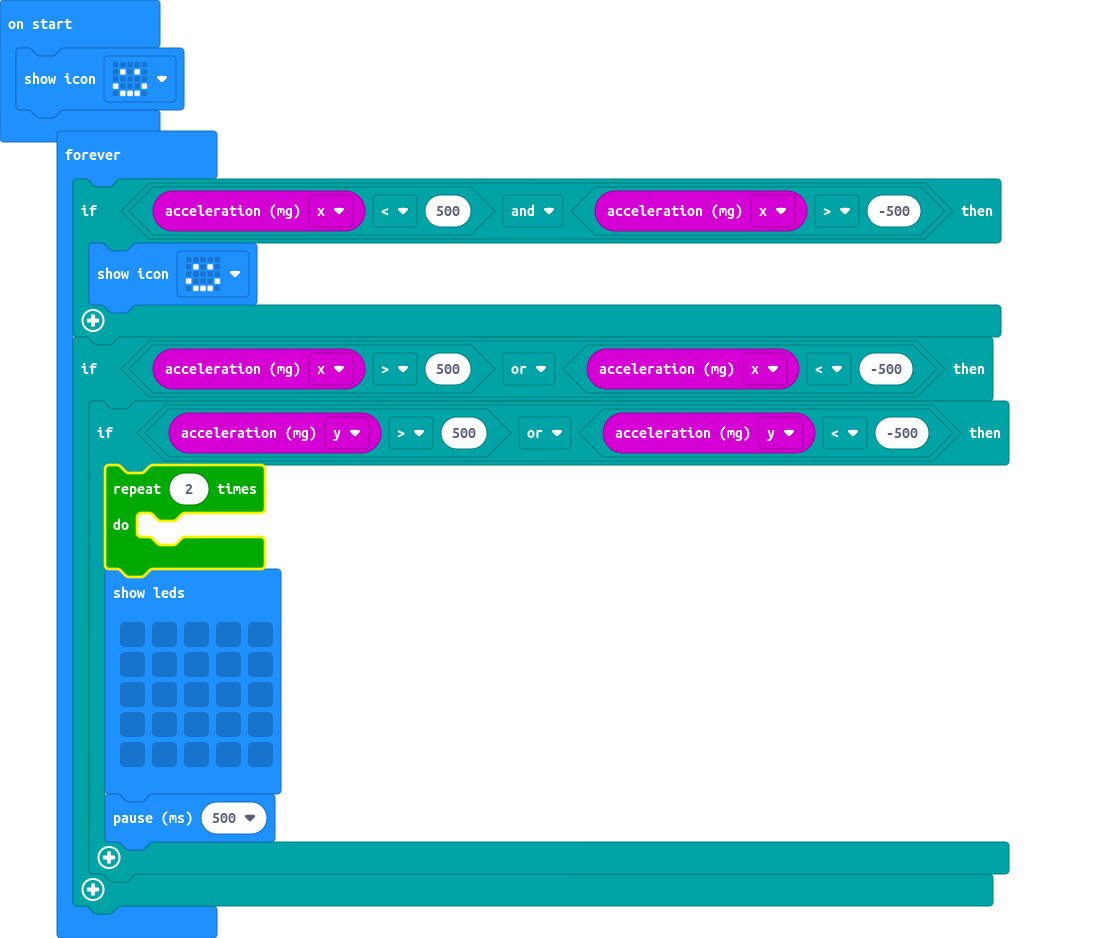
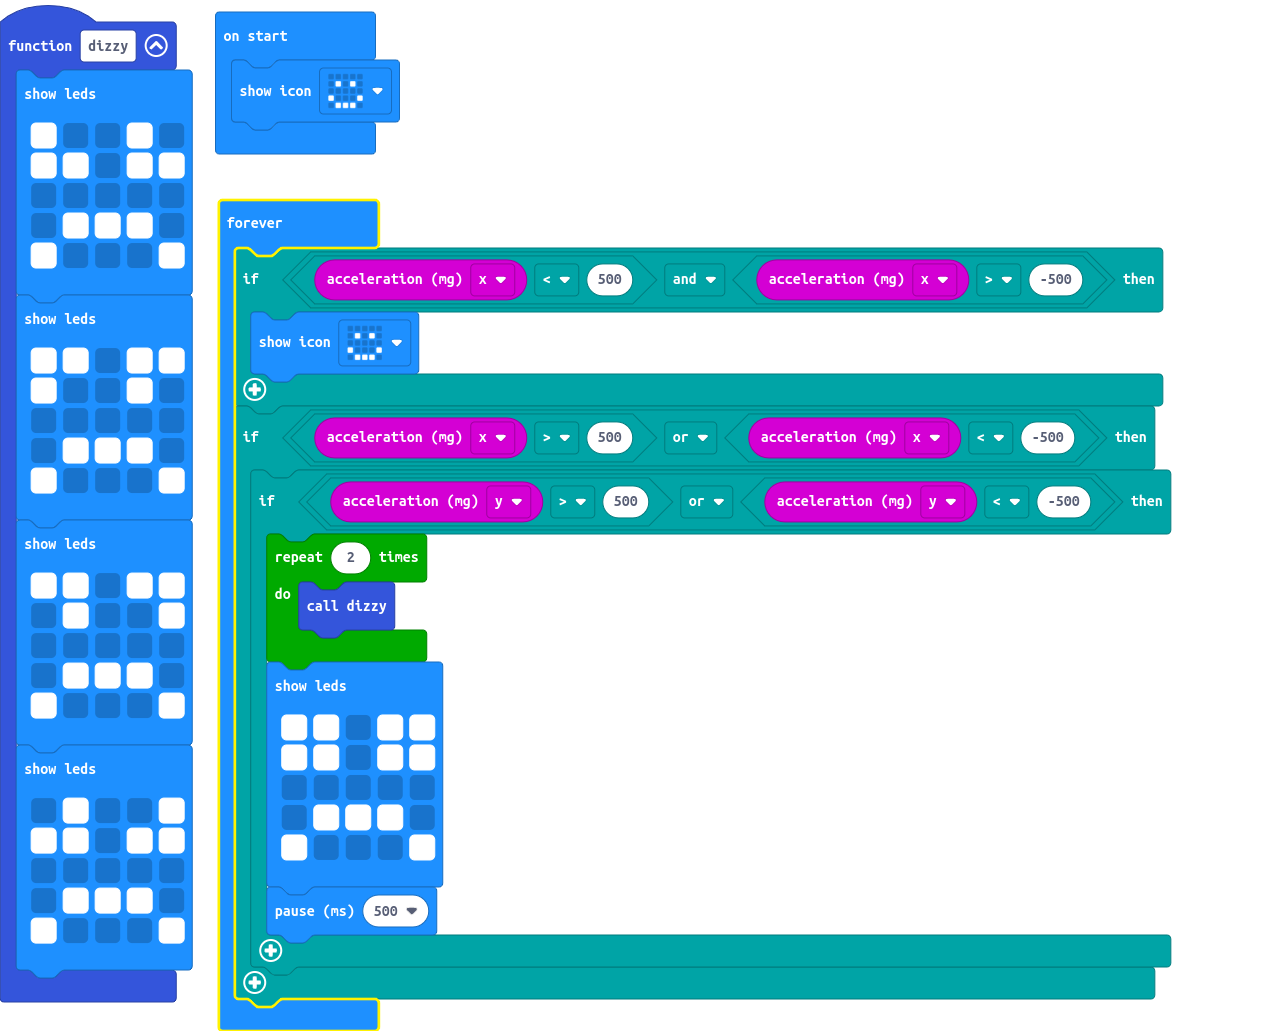
Update main.blocks, main.ts

diff --git a/main.ts b/main.ts
@@ -1,3 +1,33 @@
+function dizzy () {
+    basic.showLeds(`
+        # . . # .
+        # # . # #
+        . . . . .
+        . # # # .
+        # . . . #
+        `)
+    basic.showLeds(`
+        # # . # #
+        # . . # .
+        . . . . .
+        . # # # .
+        # . . . #
+        `)
+    basic.showLeds(`
+        # # . # #
+        . # . . #
+        . . . . .
+        . # # # .
+        # . . . #
+        `)
+    basic.showLeds(`
+        . # . . #
+        # # . # #
+        . . . . .
+        . # # # .
+        # . . . #
+        `)
+}
 basic.showIcon(IconNames.Happy)
 basic.forever(function () {
     if (input.acceleration(Dimension.X) < 500 && input.acceleration(Dimension.X) > -500) {
@@ -6,14 +36,14 @@ basic.forever(function () {
     if (input.acceleration(Dimension.X) > 500 || input.acceleration(Dimension.X) < -500) {
         if (input.acceleration(Dimension.Y) > 500 || input.acceleration(Dimension.Y) < -500) {
             for (let index = 0; index < 2; index++) {
-            	
+                dizzy()
             }
             basic.showLeds(`
+                # # . # #
+                # # . # #
                 . . . . .
-                . . . . .
-                . . . . .
-                . . . . .
-                . . . . .
+                . # # # .
+                # . . . #
                 `)
             basic.pause(500)
         }
